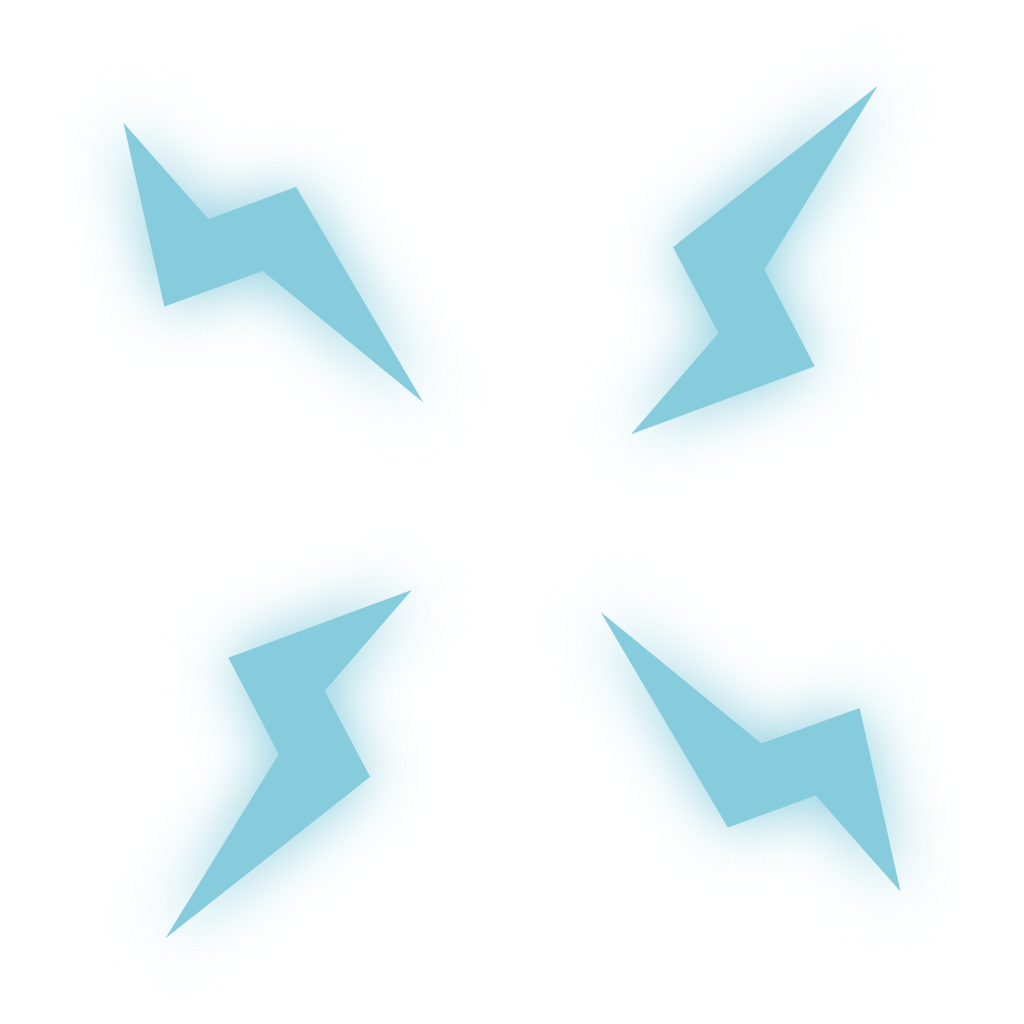
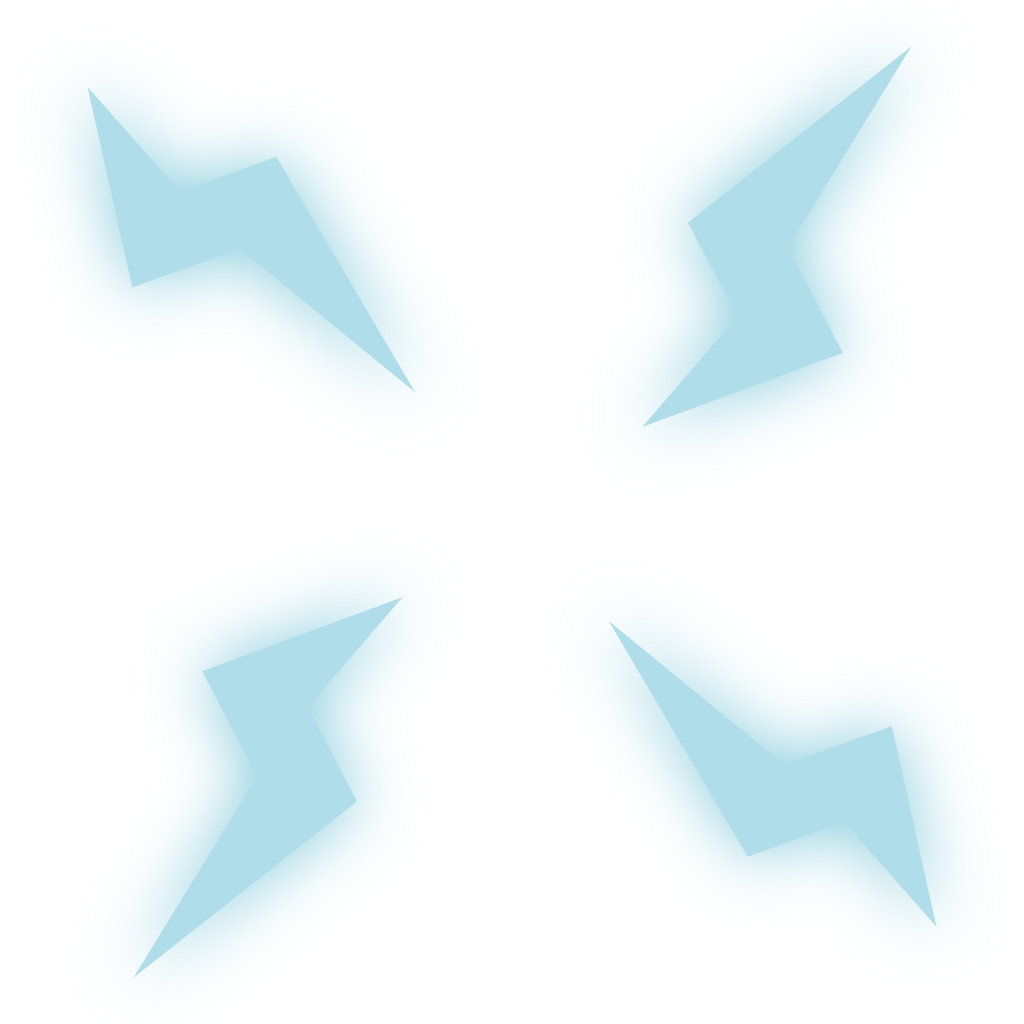
fasz

diff --git a/src/Discharge.cs b/src/Discharge.cs
@@ -103,7 +103,12 @@ public class DischargeAction : PolibActionBase
                 state.ActionStack.Add(new AttackAction(base.PlayerId, Coordinates, tile.coordinates, battleResults2.attackDamage / 2, shouldMoveToTarget: false, AttackAction.AnimationType.Splash, 20));
             }
         }
-        Ancients.Main.ConsumeCharge(unit);
+
+        ChargeAction action = PolibActionManager.MakeIl2CppAction<ChargeAction>();
+        action.PlayerId = unit.owner;
+        action.Coordinates = unit.coordinates;
+        action.Positive = false;
+        state.ActionStack.Add(action);
     }
 
     public override void Serialize(Il2CppSystem.IO.BinaryWriter writer, int version)
@@ -170,21 +175,33 @@ public class DischargeReaction : PolibReactionBase
         if (instance != null && !instance.IsHidden)
         {
             instance.Render();
-
-            VFXManager.EnsureCustomPuffRegistered("DischargePuff");
-            instance.DoPuff("DischargePuff", instance.transform, instance.VisualCenterObject.localPosition);
-
+            VFXManager.SizeMappings["dischargepuff"] = 2f;
+            VFXManager.SizeMappings["dischargepufflarge"] = 4f;
+            VFXManager.SizeMappings["dischargeblast"] = 2f;
+            
             if (action.Level == 0)
             {
-                
+                instance.SpawnAreaDamage();
+
+                VFXManager.EnsureCustomPuffRegistered("DischargePuff", "Puff");
+                instance.DoPuff("DischargePuff", instance.transform, instance.VisualCenterObject.localPosition);
             }
             else if (action.Level == 1)
             {
+                instance.SpawnAreaDamage();
                 
+                VFXManager.EnsureCustomPuffRegistered("DischargePuff", "Puff");
+                instance.DoPuff("DischargePuff", instance.transform, instance.VisualCenterObject.localPosition);
             }
             else if (action.Level == 2)
             {
                 PolibUtils.ShakeCamera(0.1f, 1f);
+
+                VFXManager.EnsureCustomPuffRegistered("DischargePuffLarge", "Puff");
+                instance.DoPuff("DischargePuffLarge", instance.transform, instance.VisualCenterObject.localPosition);
+
+                VFXManager.EnsureCustomPuffRegistered("DischargeBlast", "Blast");
+                instance.DoPuff("DischargeBlast", instance.transform, instance.VisualCenterObject.localPosition);
             }
             
             instance.Sway();

diff --git a/src/Main.cs b/src/Main.cs
@@ -111,7 +111,7 @@ public static class Main
             pylonTech,
             sentryTech
         });
-
+        
         PolibUtils.ParsePerEach<UnitData.Type, int>(rootObject, "unitData", "maxCharge", MaxCharge);
         PolibUtils.ParsePerEach<UnitData.Type, int>(rootObject, "unitData", "chargeConsumptionAmount", ChargeConsumptionAmount);
         PolibUtils.ParsePerEach<ImprovementData.Type, int>(rootObject, "improvementData", "lightningStars", LightningStars);
@@ -270,7 +270,11 @@ public static class Main
 		if (!gameState.TryGetUnit(__instance.UnitId, out var unit)) return;
         if (unit.HasAbility(Capacitor) && DoesConsume(unit.type, "move") && __instance.Reason == MoveAction.MoveReason.Command)
         {
-            ConsumeCharge(unit);
+            ChargeAction action = PolibActionManager.MakeIl2CppAction<ChargeAction>();
+            action.PlayerId = unit.owner;
+            action.Coordinates = unit.coordinates;
+            action.Positive = false;
+            gameState.ActionStack.Add(action);
         }
 	}
 
@@ -285,12 +289,20 @@ public static class Main
 
 		if (attacker.HasAbility(Charge) && defender.HasAbility(Capacitor))
 		{
-            defender.effects.Add(Charged);
+            ChargeAction action = PolibActionManager.MakeIl2CppAction<ChargeAction>();
+            action.PlayerId = defender.owner;
+            action.Coordinates = defender.coordinates;
+            action.Positive = true;
+            state.ActionStack.Add(action);
 		}
 
         if (attacker.HasAbility(Capacitor) && DoesConsume(attacker.type, "attack"))
         {
-            ConsumeCharge(attacker);
+            ChargeAction action = PolibActionManager.MakeIl2CppAction<ChargeAction>();
+            action.PlayerId = attacker.owner;
+            action.Coordinates = attacker.coordinates;
+            action.Positive = false;
+            state.ActionStack.Add(action);
         }
 
         if (attacker.HasAbility(Shock))

diff --git a/src/Charge.cs b/src/Charge.cs
@@ -119,15 +119,16 @@ public class ChargeReaction : PolibReactionBase
 
             if (action.Positive)
             {
-                VFXManager.EnsureCustomPuffRegistered("ChargePuff");
+                VFXManager.EnsureCustomPuffRegistered("ChargePuff", "Puff");
                 instance.DoPuff("ChargePuff", instance.transform, instance.VisualCenterObject.localPosition);
                 AudioManager.PlaySFXAtTile(SFXTypes.Connect, tile.coordinates);
             }
             else
-            instance.Sway();
-            AudioManager.PlaySFXAtTile(SFXTypes.Explode, tile.coordinates);
-            
-            GameManager.DelayCall(200, onComplete);
+            {
+                instance.Sway();
+                AudioManager.PlaySFXAtTile(SFXTypes.Explode, tile.coordinates);
+            }
+            onComplete.Invoke();
         }
         else
         {